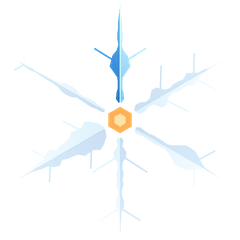
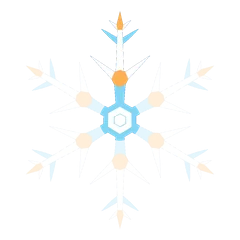
Päivitä pääkuva, hiutaleet ja johdanto

diff --git a/docs/index.html b/docs/index.html
@@ -112,13 +112,13 @@ footer img { width: 160px; margin-bottom: 12px; }
 <header class="hero">
   <picture>
     <source media="(max-width: 800px)" srcset="assets/hero_pysty.webp">
-    <img src="assets/hero.webp" width="2000" height="1125" alt="Punainen mökki talviyössä lumisen metsän reunassa. Valaistussa ikkunassa ajaja polkee traineria.">
+    <img src="assets/hero.webp" width="2000" height="1125" alt="Punainen mökki talviyössä lumisen metsän reunassa. Ikkunassa palaa valo, ja piipusta nousee savua.">
   </picture>
   <div class="wrap">
     <p class="kick">E-pyöräilyn Suomen Cup · 2027</p>
     <h1><img src="assets/sanamerkki.webp" width="1000" height="208" alt="TalviCup"></h1>
     <p class="hero-key">6 kisaa · 5 parasta · to klo 18.30</p>
-    <p class="hero-lead">Suomen Pyöräilyn virallinen e-pyöräilyn Suomen Cup. Avoin kaikille suomalaisille, alkaa torstaina 3.12.</p>
+    <p class="hero-lead">Suomen Pyöräilyn virallinen e-pyöräilyn Suomen Cup ajetaan virtuaalisesti Zwiftissä. Avoin kaikille suomalaisille, alkaa torstaina 3.12.</p>
     <div class="cta">
       <a class="btn main" href="#kisat">Kisat ja linkit</a>
       <a class="btn alt" href="#mukaan">Näin pääset mukaan</a>

diff --git a/tyokalut/tee_kuvat.py b/tyokalut/tee_kuvat.py
@@ -13,9 +13,9 @@ SITE = Path(__file__).resolve().parents[1] / "docs" / "assets"
 WORKSPACE = SITE.parents[2]
 sys.path.insert(0, str(WORKSPACE / "rcf_mediatehdas" / "kokeet" / "K24_talvicup_ilme"))
 import ilme  # noqa: E402
+import recraft_vedos as rv  # noqa: E402
 
 FONT_SRC = WORKSPACE / "rideclubfinland_materiaalipankki" / "brandi" / "fontit" / "saira_condensed"
-OG_SRC = WORKSPACE / "rcf_mediatehdas" / "tulokset" / "K24_talvicup_ilme" / "paketti" / "02_otsikkokuva.png"
 LATIN = "U+0020-007E,U+00A0-00FF,U+2013,U+2014,U+2019,U+2026,U+2192,U+00B7"
 
 
@@ -28,19 +28,21 @@ def fonts():
 
 def images():
     # Cabin small and far right so the headline stays on open sky at laptop widths.
-    ilme.night_scene((2000, 1125), horizon=.76, cabin_x=.76, cabin_w=.36).save(SITE / "hero.webp", quality=80, method=6)
-    ilme.night_scene((1080, 1500), horizon=.84, cabin_x=.5, cabin_w=.66).save(SITE / "hero_pysty.webp", quality=78, method=6)
+    rv.ilta((2000, 1125), .76, .76, .36, 130).save(SITE / "hero.webp", quality=80, method=6)
+    rv.ilta((1080, 1500), .84, .5, .66, 90).save(SITE / "hero_pysty.webp", quality=78, method=6)
     ilme.wordmark_img(1000).save(SITE / "sanamerkki.webp", quality=92, method=6)
-    ilme.flake(640).save(SITE / "hiutale.webp", quality=90, method=6)
+    full = rv.flake_from_arm()
+    full.resize((640, 640), Image.LANCZOS).save(SITE / "hiutale.webp", quality=90, method=6)
     for r in ilme.RACES:
-        ilme.flake(240, focus=r["n"]).save(SITE / f"hiutale_{r['n']}.webp", quality=88, method=6)
+        rv.flake_from_arm((r["n"],)).resize((240, 240), Image.LANCZOS).save(SITE / f"hiutale_{r['n']}.webp", quality=88, method=6)
 
-    Image.open(OG_SRC).convert("RGB").crop((0, 36, 1920, 1044)).resize((1200, 630), Image.LANCZOS).save(
-        SITE / "jako.jpg", quality=84, optimize=True)
+    share = rv.ilta((1200, 630), .78, .74, .4, 90).convert("RGBA")
+    mark = ilme.wordmark_img(560)
+    share.alpha_composite(mark, (64, 96))
+    share.convert("RGB").save(SITE / "jako.jpg", quality=84, optimize=True)
 
     tile = Image.new("RGBA", (180, 180), ilme.POLAR + (255,))
-    mark = ilme.flake(156)
-    tile.alpha_composite(mark, (12, 12))
+    tile.alpha_composite(full.resize((156, 156), Image.LANCZOS), (12, 12))
     tile.convert("RGB").save(SITE / "apple-touch-icon.png", optimize=True)
     tile.resize((48, 48), Image.LANCZOS).convert("RGB").save(SITE / "favicon.png", optimize=True)
 
